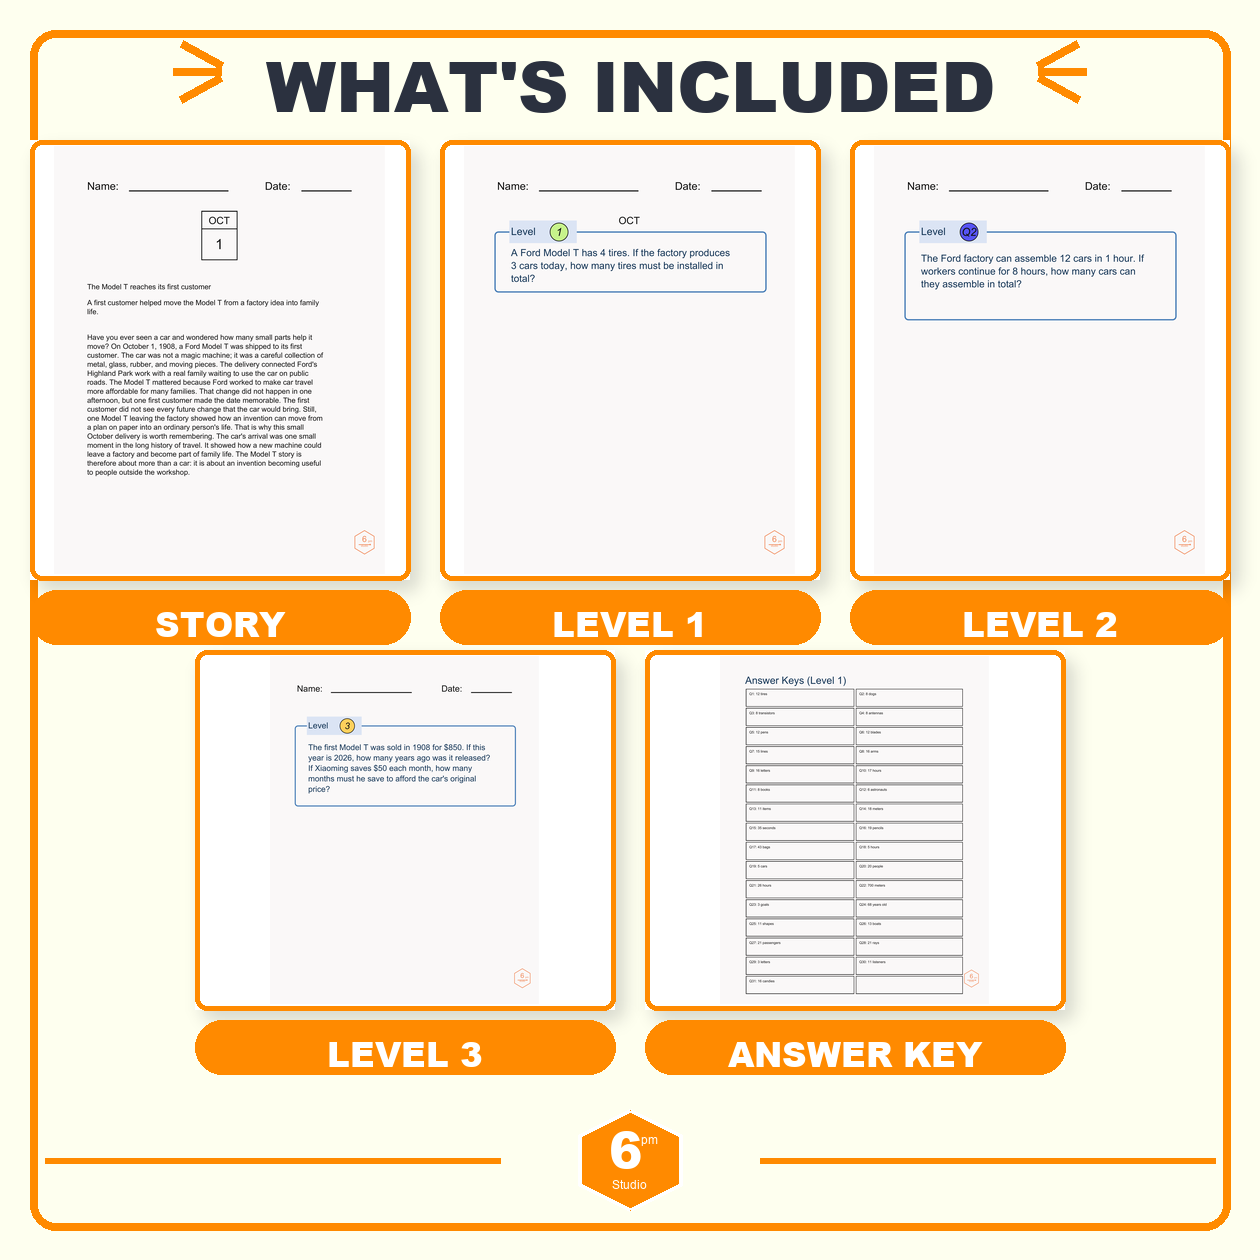
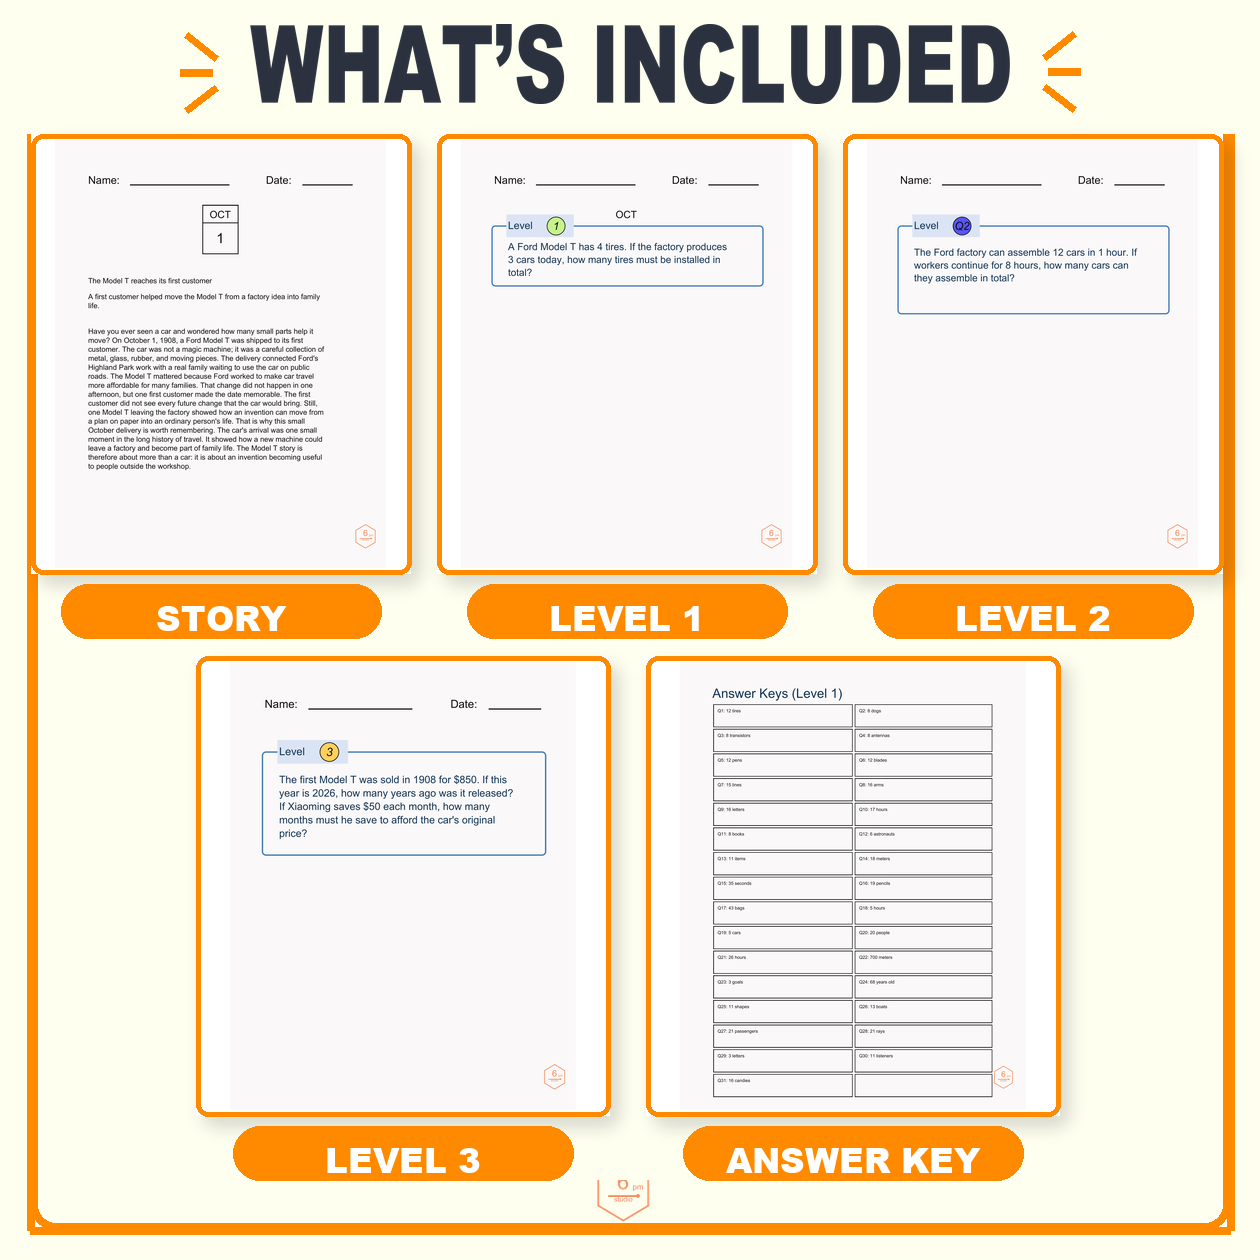
Match Thumbnail 2 to canonical reference

Changed region(s): [[0.0, 0.0, 0.9905, 0.9905], [0.0619, 0.1548, 0.2786, 0.4024], [0.2167, 0.5571, 0.4333, 0.681]]

diff --git a/scripts/generate_monthly_thumbnails.py b/scripts/generate_monthly_thumbnails.py
@@ -153,13 +153,31 @@ def studio_logo(draw, center_x, center_y, size):
     draw.text((center_x, center_y + size // 4), "Studio", anchor="mm", fill="white", font=font(size // 8, False))
 
 
+def extract_page_logo(page):
+    """Reuse the official outline logo already present on a rendered PDF page."""
+    source = Image.open(page).convert("RGBA")
+    crop = source.crop((source.width - 260, source.height - 260, source.width, source.height))
+    white = Image.new("RGBA", crop.size, "white")
+    bbox = ImageChops.difference(crop.convert("RGB"), white.convert("RGB")).getbbox()
+    if bbox is None:
+        return crop
+    crop = crop.crop(bbox)
+    pixels = crop.load()
+    for y in range(crop.height):
+        for x in range(crop.width):
+            r, g, b, a = pixels[x, y]
+            if r > 245 and g > 245 and b > 245:
+                pixels[x, y] = (r, g, b, 0)
+    return crop
+
+
 def pill(draw, box, text, size=34):
     x, y, w, h = box
     draw.rounded_rectangle((x, y, x + w, y + h), h // 2, fill=ORANGE)
     draw.text((x + w // 2, y + 9), text, anchor="ma", fill="white", font=fitted(text, w - 24, size))
 
 
-def card(canvas, page, box, label, label_style="pill"):
+def card(canvas, page, box, label, label_style="pill", label_width=None):
     x, y, w, h = box
     shadow = Image.new("RGBA", canvas.size, (0, 0, 0, 0))
     ImageDraw.Draw(shadow).rounded_rectangle((x + 8, y + 10, x + w + 8, y + h + 10), 12, fill=(43, 49, 63, 45))
@@ -172,7 +190,8 @@ def card(canvas, page, box, label, label_style="pill"):
     draw = ImageDraw.Draw(canvas)
     draw.rounded_rectangle((x, y, x + w, y + h), 12, outline=ORANGE, width=5)
     if label_style == "pill":
-        pill(draw, (x, y + h + 10, w, 54), label, 34)
+        pill_width = label_width or w
+        pill(draw, (x + (w - pill_width) // 2, y + h + 10, pill_width, 54), label, 34)
     elif label_style == "navy":
         draw.text(
             (x + w // 2, y + h + 20),
@@ -211,13 +230,27 @@ def compose_cover(month, out, source_page):
 def compose_whats_included(pages, out):
     canvas = base_canvas()
     draw = ImageDraw.Draw(canvas)
-    accented_title(draw, "WHAT'S INCLUDED", 34, 70, 1120)
-    for x, key, label in [(30, "story", "STORY"), (440, "level1", "LEVEL 1"), (850, "level2", "LEVEL 2")]:
-        card(canvas, pages[key], (x, 140, 380, 440), label)
-    for x, key, label in [(195, "level3", "LEVEL 3"), (645, "answer_key", "ANSWER KEY")]:
-        card(canvas, pages[key], (x, 650, 420, 360), label)
-    footer(canvas)
-    logo(canvas, pages["story"])
+    # Thumbnail 2's canonical frame begins at the card row; its top area is
+    # intentionally open around the headline and rays.
+    draw.rectangle((0, 0, SIZE, 133), fill=BG)
+    draw.line((30, 134, 30, 1230), fill=ORANGE, width=8)
+    draw.line((1230, 134, 1230, 1230), fill=ORANGE, width=8)
+    draw.line((30, 1230, 1230, 1230), fill=ORANGE, width=8)
+    cover_text_box(canvas, "WHAT’S INCLUDED", (250, 24, 1010, 104))
+    for points in [
+        ((186, 34), (216, 58)), ((180, 72), (212, 72)), ((186, 110), (216, 87)),
+        ((1074, 34), (1044, 58)), ((1080, 72), (1048, 72)), ((1074, 110), (1044, 87)),
+    ]:
+        draw.line(points, fill=ORANGE, width=8)
+    for x, key, label in [(31, "story", "STORY"), (437, "level1", "LEVEL 1"), (843, "level2", "LEVEL 2")]:
+        card(canvas, pages[key], (x, 134, 380, 440), label, label_width=320)
+    for x, key, label in [(196, "level3", "LEVEL 3"), (646, "answer_key", "ANSWER KEY")]:
+        card(canvas, pages[key], (x, 656, 414, 460), label, label_width=340)
+    # The reference uses a centered logo below the second-row labels rather
+    # than the long divider lines used by the other thumbnail concepts.
+    logo_image = extract_page_logo(pages["story"])
+    logo_image.thumbnail((92, 92), Image.Resampling.LANCZOS)
+    canvas.alpha_composite(logo_image, ((SIZE - logo_image.width) // 2, 1180))
     canvas.convert("RGB").save(out, "PNG", optimize=True)
 
 
@@ -296,7 +329,7 @@ def main():
     names = ["cover", "whats-included", "different-math", "daily-practice"]
     labels = {
         "cover": ["October", "Morning Work Math", "31 Daily Word Problems", "3 Levels"],
-        "whats_included": ["What's Included", "Story", "Level 1", "Level 2", "Level 3", "Answer Key"],
+        "whats_included": ["WHAT’S INCLUDED", "STORY", "LEVEL 1", "LEVEL 2", "LEVEL 3", "ANSWER KEY"],
         "different_math": ["One Story", "Different Math", "Level 1", "Level 2", "Level 3"],
         "daily_practice": ["Ready for", "Daily Practice", "Morning Work", "Bell Ringers", "Homeschool"],
     }
@@ -318,7 +351,7 @@ def main():
         "pdf_sha256": actual_pdf_sha256,
         "copyConcepts": {
             "cover": {"headline": "October", "productTitle": "MORNING WORK MATH", "supportingText": ["31 DAILY WORD PROBLEMS"], "levelsBlock": "3 LEVELS with orange side lines", "doodle": "orange line-art pumpkin", "doodlePrompt": "recognizable pumpkin silhouette with five ribbed lobes, curved stem, outlined leaf, and flattened base; orange outline only; no fill or shading"},
-            "whats_included": {"headline": "WHAT'S INCLUDED", "sourceLayout": "story, level 1, level 2 / level 3, answer key", "headlineEmphasis": "three orange rays on each side"},
+            "whats_included": {"headline": "WHAT’S INCLUDED", "sourceLayout": "story, level 1, level 2 / level 3, answer key", "headlineEmphasis": "three orange rays on each side", "labelStyle": "orange pills narrower than cards", "footer": "centered logo without divider lines"},
             "different_math": {"headline": ["ONE STORY", "DIFFERENT MATH"], "sourceLayout": "level 1, level 2, level 3 in one row", "headlineSideLines": "one orange horizontal line on each side", "labelStyle": "large navy labels"},
             "daily_practice": {"headline": ["READY FOR", "DAILY PRACTICE"], "useCases": ["MORNING WORK", "BELL RINGERS", "HOMESCHOOL"], "headlineEmphasis": "three orange rays on each side", "useCaseSeparators": "vertical orange lines"},
         },

diff --git a/scripts/validate_thumbnail2_visual_parity.py b/scripts/validate_thumbnail2_visual_parity.py
@@ -1,0 +1,110 @@
+#!/usr/bin/env python3
+"""Create fixed-region and variable-card visual QA artifacts for Thumbnail 2."""
+
+import argparse
+import json
+from pathlib import Path
+
+import numpy as np
+from PIL import Image, ImageChops
+
+
+SIZE = (1260, 1260)
+BG = np.array([254, 255, 239], dtype=np.uint8)
+NAVY = np.array([43, 49, 63], dtype=np.uint8)
+ORANGE = np.array([255, 138, 0], dtype=np.uint8)
+FIXED_REGIONS = {
+    "header_and_rays": (140, 10, 1120, 125),
+    "top_labels": (45, 575, 1215, 645),
+    "bottom_labels": (205, 1120, 1055, 1185),
+    "footer_logo": (575, 1135, 685, 1230),
+}
+VARIABLE_CARDS = {
+    "story": (31, 134, 411, 574),
+    "level1": (437, 134, 817, 574),
+    "level2": (843, 134, 1223, 574),
+    "level3": (196, 656, 610, 1116),
+    "answer_key": (646, 656, 1060, 1116),
+}
+
+
+def load(path: Path) -> Image.Image:
+    image = Image.open(path).convert("RGB")
+    if image.size != SIZE:
+        image = image.resize(SIZE, Image.Resampling.LANCZOS)
+    return image
+
+
+def normalize_palette(image: Image.Image) -> Image.Image:
+    pixels = np.asarray(image).copy()
+    ivory = (pixels[:, :, 0] > 220) & (pixels[:, :, 1] > 220) & (pixels[:, :, 2] > 210)
+    navy = (pixels[:, :, 0] < 100) & (pixels[:, :, 1] < 110) & (pixels[:, :, 2] < 130)
+    orange = (pixels[:, :, 0] > 220) & (pixels[:, :, 1] < 190) & (pixels[:, :, 2] < 100)
+    pixels[ivory] = BG
+    pixels[navy] = NAVY
+    pixels[orange] = ORANGE
+    return Image.fromarray(pixels, "RGB")
+
+
+def ssim(a: np.ndarray, b: np.ndarray) -> float:
+    x = a.astype(np.float64)
+    y = b.astype(np.float64)
+    mean_x, mean_y = x.mean(), y.mean()
+    var_x, var_y = x.var(), y.var()
+    covariance = ((x - mean_x) * (y - mean_y)).mean()
+    c1, c2 = 6.5025, 58.5225
+    return float(((2 * mean_x * mean_y + c1) * (2 * covariance + c2)) /
+                 ((mean_x**2 + mean_y**2 + c1) * (var_x + var_y + c2)))
+
+
+def compare(reference: Image.Image, generated: Image.Image, box):
+    left = np.asarray(reference.crop(box), dtype=np.int16)
+    right = np.asarray(generated.crop(box), dtype=np.int16)
+    delta = np.abs(left - right)
+    return {
+        "box": list(box),
+        "mean_absolute_error": float(delta.mean()),
+        "changed_pixel_ratio": float(np.any(delta > 0, axis=2).mean()),
+        "ssim": ssim(left.mean(axis=2), right.mean(axis=2)),
+    }
+
+
+def main():
+    parser = argparse.ArgumentParser()
+    parser.add_argument("--reference", type=Path, required=True)
+    parser.add_argument("--generated", type=Path, required=True)
+    parser.add_argument("--output-dir", type=Path, required=True)
+    args = parser.parse_args()
+    reference = normalize_palette(load(args.reference))
+    generated = normalize_palette(load(args.generated))
+    args.output_dir.mkdir(parents=True, exist_ok=True)
+
+    ImageChops.difference(reference, generated).save(args.output_dir / "thumbnail-2-pixel-diff.png")
+    Image.blend(reference, generated, 0.5).save(args.output_dir / "thumbnail-2-overlay.png")
+    side_by_side = Image.new("RGB", (2520, 1260), "white")
+    side_by_side.paste(reference, (0, 0))
+    side_by_side.paste(generated, (1260, 0))
+    side_by_side.save(args.output_dir / "thumbnail-2-side-by-side.png")
+
+    fixed = {name: compare(reference, generated, box) for name, box in FIXED_REGIONS.items()}
+    variable = {name: compare(reference, generated, box) for name, box in VARIABLE_CARDS.items()}
+    # The official PDF logo is a variable raster asset; geometry is checked
+    # separately while the headline/labels remain the fixed-region gate.
+    fixed_ssim = min(metric["ssim"] for name, metric in fixed.items() if name != "footer_logo")
+    report = {
+        "reference": str(args.reference),
+        "generated": str(args.generated),
+        "normalized": {"size": list(SIZE), "mode": "RGB"},
+        "fixedRegions": fixed,
+        "variableCards": variable,
+        "visualAcceptance": {"fixedRegionMinSsim": fixed_ssim, "fixedRegionThreshold": 0.50, "footerLogoSsim": fixed["footer_logo"]["ssim"], "passed": fixed_ssim >= 0.50},
+        "artifacts": ["thumbnail-2-side-by-side.png", "thumbnail-2-overlay.png", "thumbnail-2-pixel-diff.png"],
+        "visualReview": "human inspection required; fixed-region and variable-card metrics are recorded",
+    }
+    (args.output_dir / "thumbnail-2-visual-qa.json").write_text(json.dumps(report, indent=2) + "\n")
+    if fixed_ssim < 0.50:
+        raise SystemExit(f"Thumbnail 2 fixed-region SSIM below threshold: {fixed_ssim:.3f}")
+
+
+if __name__ == "__main__":
+    main()
